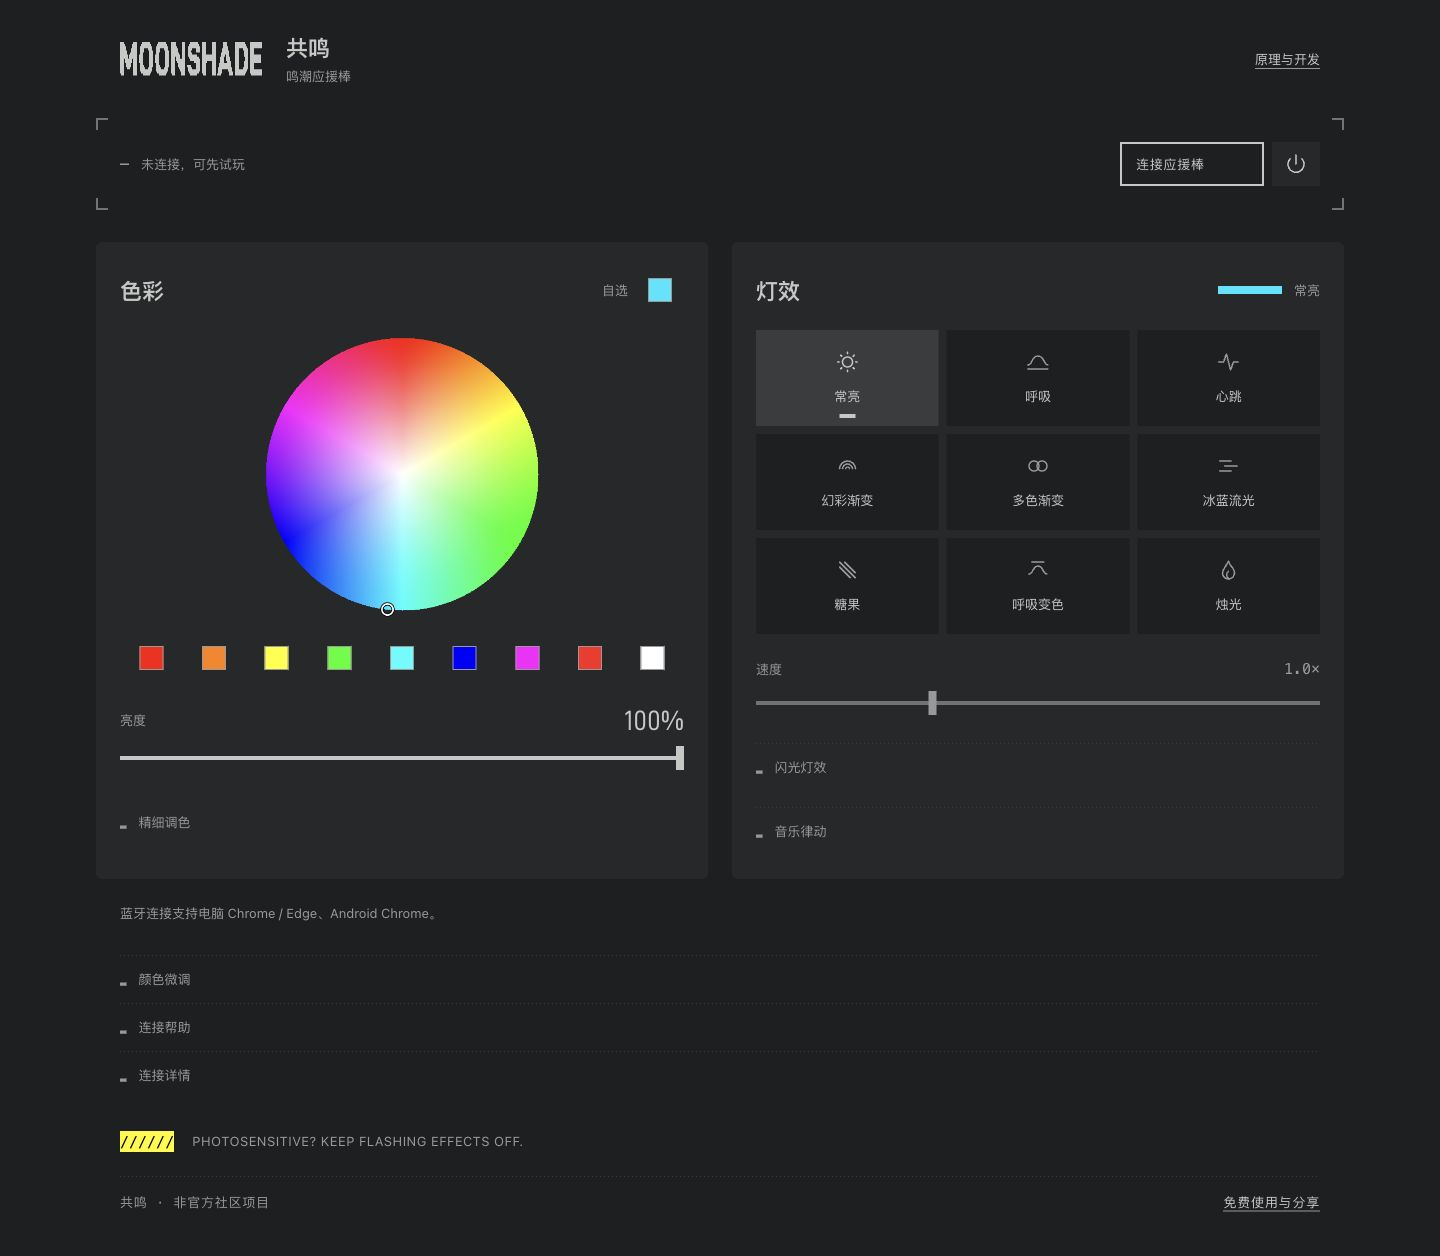
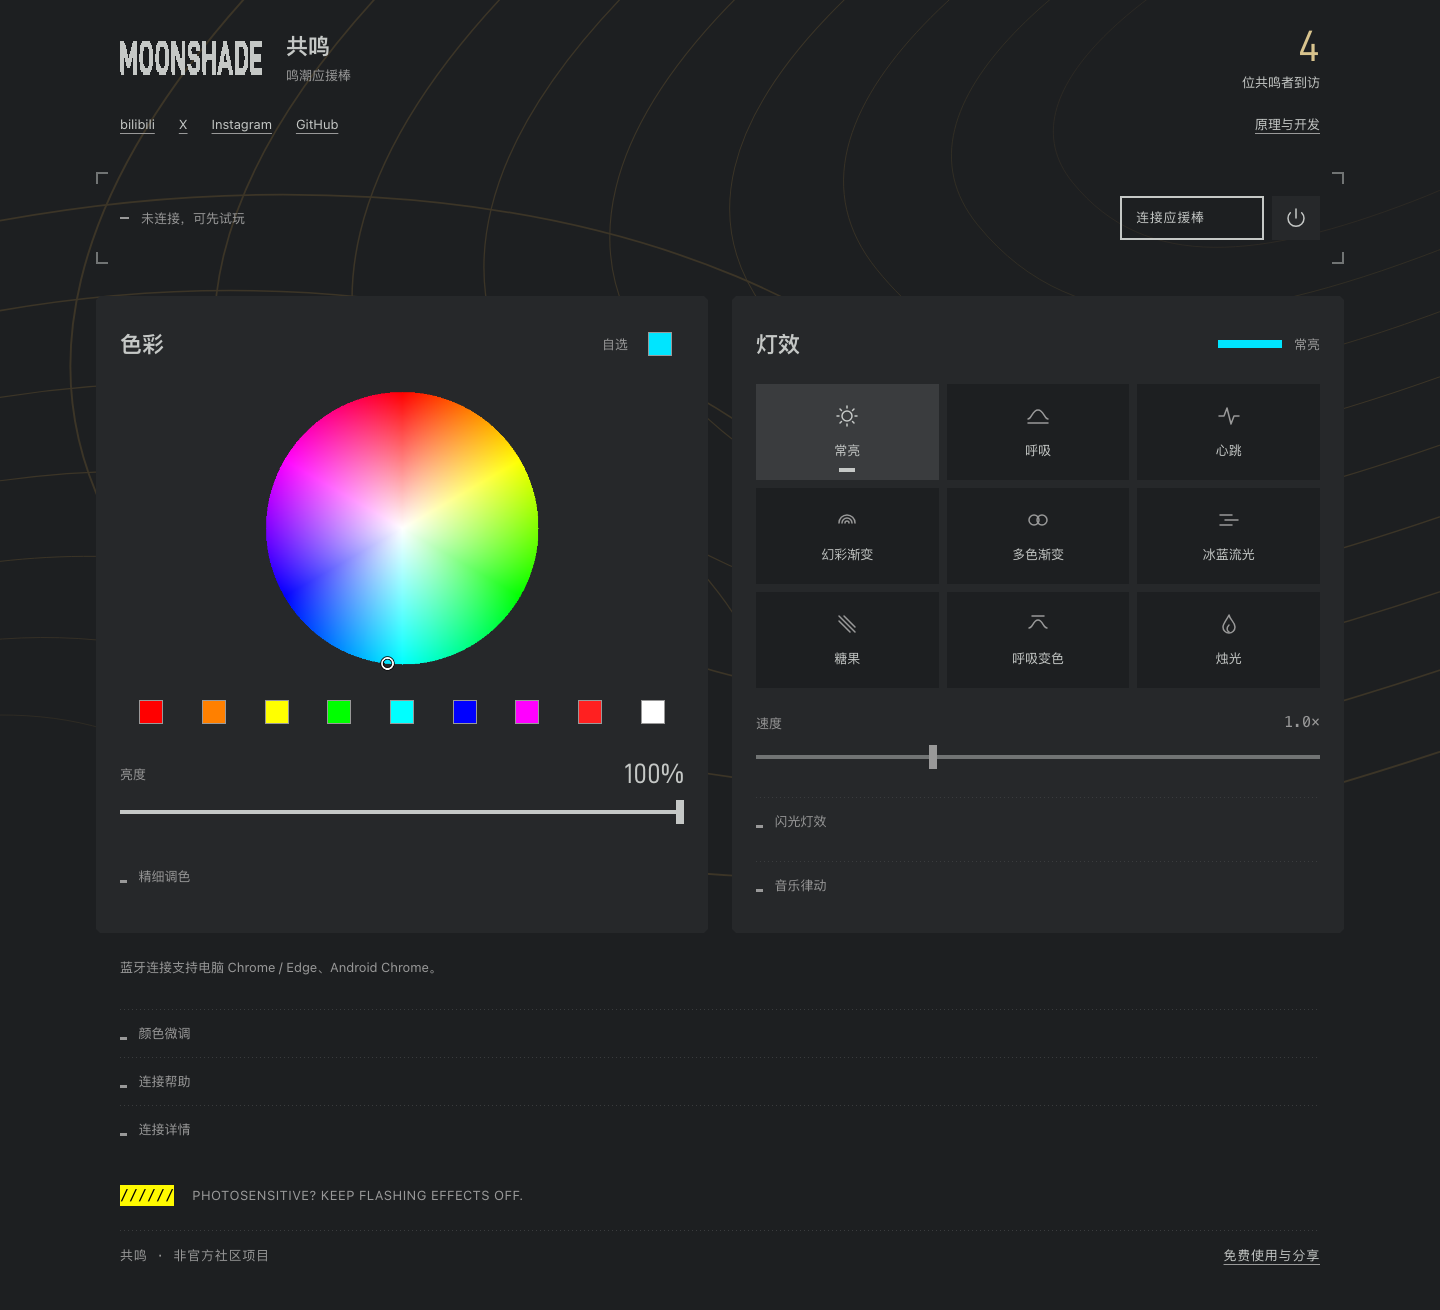
Highlight visitors with gold resonance artwork and social links

diff --git a/web/index.html b/web/index.html
@@ -7,12 +7,30 @@
 <title>共鸣 · 鸣潮应援棒</title><link rel="stylesheet" href="moonshade/tokens.css"><link rel="stylesheet" href="moonshade/bundle.css"><link rel="stylesheet" href="style.css">
 <link rel="canonical" href="https://wuwa.south-wall.com/">
 </head>
-<body class="ms-page">
+<body class="ms-page wuwa-controller">
+<svg class="resonance-field" viewBox="0 0 1600 1000" preserveAspectRatio="xMidYMid slice" aria-hidden="true" focusable="false">
+  <defs><path id="resonance-contour" d="M0-360C260-370 620-220 680 30S390 380 20 360-610 260-680 0-330-350 0-360Z"/></defs>
+  <g transform="translate(1490 70) rotate(-24)">
+    <use href="#resonance-contour" transform="scale(.48)"/><use href="#resonance-contour" transform="scale(.65)"/><use href="#resonance-contour" transform="scale(.83)"/><use href="#resonance-contour" transform="scale(1.02)"/><use href="#resonance-contour" transform="scale(1.22)"/><use href="#resonance-contour" transform="scale(1.43)"/><use href="#resonance-contour" transform="scale(1.65)"/><use href="#resonance-contour" transform="scale(1.88)"/><use href="#resonance-contour" transform="scale(2.12)"/>
+  </g>
+  <g transform="translate(-120 1020) rotate(-24)">
+    <use href="#resonance-contour" transform="scale(.55)"/><use href="#resonance-contour" transform="scale(.76)"/><use href="#resonance-contour" transform="scale(.98)"/><use href="#resonance-contour" transform="scale(1.21)"/><use href="#resonance-contour" transform="scale(1.45)"/><use href="#resonance-contour" transform="scale(1.70)"/><use href="#resonance-contour" transform="scale(1.96)"/>
+  </g>
+</svg>
 <a class="ms-skip" href="#playground">跳到遥控器</a>
 <main class="ms-wrap">
 <header class="masthead ms-header--compact">
   <div class="identity"><a class="ms-brand" href="/" aria-label="MoonShade · 共鸣首页"><svg xmlns="http://www.w3.org/2000/svg" viewBox="0 0 1420 336" width="142" height="33.6" aria-hidden="true" class="ms-wordmark" shape-rendering="crispEdges" focusable="false"><path fill="currentColor" d="M0 0h40v21h-40zM0 168h40v147h-40zM130 0h40v21h-40zM130 168h40v168h-40zM220 0h80v21h-80zM380 0h80v21h-80zM510 0h50v42h-50zM620 0h30v168h-30zM700 0h80v21h-80zM820 0h40v126h-40zM820 210h40v105h-40zM920 0h40v126h-40zM920 189h40v147h-40zM1030 0h40v42h-40zM1150 0h100v21h-100zM1150 315h100v21h-100zM1300 0h120v63h-120zM1300 273h120v42h-120zM0 21h50v21h-50zM120 21h50v42h-50zM210 21h100v21h-100zM210 294h100v21h-100zM370 21h100v21h-100zM370 294h100v21h-100zM690 21h100v21h-100zM690 147h100v21h-100zM690 294h100v21h-100zM1150 21h110v21h-110zM1150 294h110v21h-110zM0 42h60v42h-60zM200 42h120v21h-120zM200 273h120v21h-120zM360 42h120v21h-120zM360 273h120v21h-120zM510 42h60v21h-60zM680 42h120v21h-120zM680 273h120v21h-120zM1030 42h50v21h-50zM1150 42h120v21h-120zM1150 273h120v21h-120zM110 63h60v42h-60zM200 63h40v42h-40zM200 231h40v21h-40zM280 63h40v21h-40zM280 252h40v21h-40zM360 63h40v42h-40zM360 231h40v21h-40zM440 63h40v21h-40zM440 252h40v21h-40zM510 63h70v42h-70zM680 63h40v21h-40zM680 105h40v21h-40zM680 252h40v21h-40zM760 63h40v42h-40zM760 210h40v63h-40zM1020 63h60v21h-60zM1150 63h40v210h-40zM1230 63h50v21h-50zM1230 252h50v21h-50zM1300 63h40v63h-40zM1300 210h40v63h-40zM0 84h70v42h-70zM290 84h40v168h-40zM450 84h40v168h-40zM680 84h30v21h-30zM1020 84h70v21h-70zM1240 84h40v63h-40zM1240 189h40v63h-40zM100 105h70v21h-70zM200 105h30v21h-30zM200 210h30v21h-30zM360 105h30v21h-30zM360 210h30v21h-30zM510 105h80v21h-80zM1010 105h80v21h-80zM0 126h80v42h-80zM90 126h80v42h-80zM190 126h40v84h-40zM350 126h40v84h-40zM510 126h90v21h-90zM680 126h90v21h-90zM820 126h140v63h-140zM1010 126h40v21h-40zM1060 126h30v21h-30zM1300 126h110v84h-110zM510 147h40v168h-40zM560 147h40v21h-40zM1000 147h40v63h-40zM1060 147h40v42h-40zM1250 147h30v42h-30zM50 168h70v42h-70zM560 168h90v21h-90zM700 168h100v21h-100zM570 189h80v21h-80zM740 189h60v21h-60zM820 189h50v21h-50zM1070 189h40v21h-40zM60 210h50v42h-50zM580 210h70v42h-70zM990 210h120v42h-120zM670 231h40v21h-40zM70 252h30v21h-30zM200 252h50v21h-50zM360 252h50v21h-50zM590 252h60v21h-60zM980 252h140v21h-140zM600 273h50v21h-50zM980 273h40v42h-40zM1080 273h40v21h-40zM610 294h40v42h-40zM1090 294h40v42h-40zM10 315h30v21h-30zM230 315h70v21h-70zM390 315h70v21h-70zM520 315h30v21h-30zM700 315h70v21h-70zM830 315h30v21h-30zM970 315h40v21h-40zM1310 315h110v21h-110z"/></svg></a><div class="product-title"><h1 class="ms-h2">共鸣</h1><span class="identity-note web-small">鸣潮应援棒</span></div></div>
-  <div class="masthead-meta"><span id="visitorCount" class="web-body" hidden></span><a class="text-link ms-link web-small" href="principles.html">原理与开发</a></div>
+  <div id="visitorCount" class="visitor-count" hidden><span id="visitorTotal" class="ms-readout"></span> <span class="web-small">位共鸣者到访</span></div>
+  <div class="masthead-nav">
+    <nav class="social-links web-small" aria-label="CloudyMoonShape 的社交链接">
+      <a class="ms-link" href="https://space.bilibili.com/3215958" target="_blank" rel="noopener noreferrer">bilibili</a>
+      <a class="ms-link" href="https://x.com/CloudyMoonShape" target="_blank" rel="noopener noreferrer" aria-label="X（Twitter）">X</a>
+      <a class="ms-link" href="https://www.instagram.com/cloudymoonshape/" target="_blank" rel="noopener noreferrer">Instagram</a>
+      <a class="ms-link" href="https://github.com/CloudyMoonShape/wuwa-lightstick" target="_blank" rel="noopener noreferrer">GitHub</a>
+    </nav>
+    <a class="text-link ms-link web-small" href="principles.html">原理与开发</a>
+  </div>
 </header>
 <noscript><p class="ms-small">请开启 JavaScript 使用遥控器。原理页仍可阅读。</p></noscript>
 <section class="instrument" id="playground" aria-label="应援棒遥控器">

diff --git a/web/style.css b/web/style.css
@@ -1,4 +1,10 @@
 /* MoonShade application extensions. RGB values are control data, not UI colors. */
+/* The owner requested gold resonance contours as a local MoonShade exception. */
+.wuwa-controller { --wuwa-gold:#d8c38d; --wuwa-wave:#3c3527; position:relative; isolation:isolate; }
+[data-theme=light] .wuwa-controller,.wuwa-controller[data-theme=light] { --wuwa-gold:#765a23; --wuwa-wave:#ded7c7; }
+@media(prefers-color-scheme:light) { :root:not([data-theme]) .wuwa-controller { --wuwa-gold:#765a23; --wuwa-wave:#ded7c7; } }
+.resonance-field { position:fixed; inset:0; z-index:-1; width:100%; height:100%; pointer-events:none; fill:none; stroke:var(--wuwa-wave); stroke-width:1; }
+.resonance-field use { vector-effect:non-scaling-stroke; }
 p,h1,h2 { margin:0; }
 button,input { font:inherit; }
 button,a,input,summary { touch-action:manipulation; }
@@ -9,15 +15,19 @@ button:active:not(:disabled) { background:var(--web-ink); color:var(--web-bg); }
 button:disabled { color:var(--web-ink-2); cursor:default; }
 input:focus-visible { outline:2px solid var(--web-focus); outline-offset:3px; }
 svg { width:var(--web-space-6); height:var(--web-space-6); fill:none; stroke:currentColor; stroke-width:1.5; stroke-linecap:round; stroke-linejoin:round; flex-shrink:0; }
-.masthead { display:flex; flex-wrap:wrap; align-items:center; justify-content:space-between; gap:var(--web-space-4); padding-block:var(--web-space-8); }
+.masthead { display:grid; grid-template-columns:minmax(0,1fr) auto; align-items:center; gap:var(--web-space-2) var(--web-space-6); padding-block:var(--web-space-6); }
 .identity { display:flex; align-items:center; gap:var(--web-space-6); }
 .identity .ms-brand { flex:none; }
 .identity .ms-brand svg { stroke:none; }
 .product-title { display:flex; flex-direction:column; gap:var(--web-space-1); }
 .identity h1 { font-family:var(--font-sans); }
 .identity-note { color:var(--web-ink-2); white-space:nowrap; }
-.masthead-meta { display:flex; flex-wrap:wrap; align-items:center; justify-content:space-between; gap:var(--web-space-2) var(--web-space-8); }
-#visitorCount { color:var(--web-ink); font-variant-numeric:tabular-nums; white-space:nowrap; }
+.visitor-count:not([hidden]) { display:flex; flex-direction:column; align-items:flex-end; gap:var(--web-space-1); color:var(--web-ink); white-space:nowrap; }
+#visitorTotal { --digits:1; color:var(--wuwa-gold); }
+.masthead-nav { grid-column:1 / -1; display:flex; flex-wrap:wrap; align-items:center; justify-content:space-between; gap:0 var(--web-space-4); }
+.social-links { display:flex; flex-wrap:wrap; align-items:center; gap:0 var(--web-space-6); }
+.social-links a { display:inline-flex; align-items:center; min-height:var(--web-space-12); white-space:nowrap; }
+.social-links a:hover,.social-links a:focus-visible { color:var(--wuwa-gold); }
 .text-link { display:inline-flex; align-items:center; min-height:var(--web-space-12); white-space:nowrap; }
 .connection { display:flex; justify-content:space-between; align-items:center; gap:var(--web-space-4); margin-bottom:var(--web-space-8); }
 .connection-state { display:flex; align-items:center; gap:var(--web-space-3); min-width:0; }
@@ -103,10 +113,11 @@ button.quiet { background:transparent; color:var(--web-ink-2); padding:var(--web
 .ms-site-footer { padding-top:var(--web-space-8); }
 .ms-footer { margin-top:var(--web-space-6); }
 .ms-footer a { min-height:var(--web-space-8); }
-@media(min-width:768px) { .masthead { padding-block:var(--web-space-8); } }
 @media(max-width:767px) {
-  .identity { gap:var(--web-space-4); }
-  .masthead-meta { width:100%; gap:var(--web-space-2) var(--web-space-4); }
+  .masthead { column-gap:var(--web-space-4); }
+  .identity { flex-direction:column; align-items:flex-start; gap:var(--web-space-2); }
+  .product-title { flex-direction:row; align-items:baseline; gap:var(--web-space-2); }
+  .social-links { gap:0 var(--web-space-4); }
   .masthead .text-link { margin-left:auto; }
   .connection { flex-wrap:wrap; gap:var(--web-space-3); margin-bottom:var(--web-space-4); }
   .connection-state { flex-basis:100%; }

diff --git a/web/visitors.js b/web/visitors.js
@@ -16,7 +16,8 @@
 
   async function start() {
     const node = document.getElementById('visitorCount');
-    if (!node) return;
+    const value = document.getElementById('visitorTotal');
+    if (!node || !value) return;
     node.hidden = true;
     if (!origins.includes(location.origin)) return;
     let timer;
@@ -33,7 +34,7 @@
       if (!response.ok) return;
       const {total} = await response.json();
       if (!Number.isSafeInteger(total) || total < 0) return;
-      node.textContent = `${total.toLocaleString('zh-CN')} 位共鸣者到访`;
+      value.textContent = total.toLocaleString('zh-CN');
       node.hidden = false;
     } catch { /* A counter must never interrupt the controller. */ }
     finally { clearTimeout(timer); }

diff --git a/docs/VISITORS.md b/docs/VISITORS.md
@@ -1,6 +1,6 @@
 # 到访计数
 
-页头、连接栏上方显示「N 位共鸣者到访」。N 是启用计数后，成功登记过的浏览器身份数；从 0 开始，不补造此前的访问量，也不表示独立人数或灯棒数量。
+页头、连接栏上方以金色大读数显示 N，下方为「位共鸣者到访」。N 是启用计数后，成功登记过的浏览器身份数；从 0 开始，不补造此前的访问量，也不表示独立人数或灯棒数量。
 
 ## 怎么计数
 
@@ -15,7 +15,7 @@ flowchart LR
   F -->|已登记| H[读取单行总数]
   G --> H
   D --> H
-  H --> I[显示页脚计数]
+  H --> I[显示页头计数]
 ```
 
 浏览器使用 `crypto.randomUUID()` 生成随机 UUID v4，保存在 `localStorage` 的 `wuwa.visitor.v1`。每次打开页面都提交同一个 ID；服务端把它规范为小写、计算 SHA-256，只保存哈希值。`visitor_ids` 的主键去重，`AFTER INSERT` 触发器仅在真正插入时更新 `visitor_totals` 的唯一一行。插入和读总数放在同一个 D1 `batch()` 中，失败时整体回滚；查询总数不扫描访客表。[D1 事务](https://developers.cloudflare.com/d1/worker-api/d1-database/#batch)、[D1 触发器支持](https://developers.cloudflare.com/d1/sql-api/sql-statements/#pragma-recursive_triggers--onoff)、[SQLite 触发器语义](https://www.sqlite.org/lang_createtrigger.html)
@@ -31,10 +31,13 @@ flowchart LR
 页头提供一个默认隐藏的容器：
 
 ```html
-<span id="visitorCount" class="web-body" hidden></span>
+<div id="visitorCount" class="visitor-count" hidden>
+  <span id="visitorTotal" class="ms-readout"></span>
+  <span class="web-small">位共鸣者到访</span>
+</div>
 ```
 
-加载 [web/visitors.js](../web/visitors.js) 一次即可，无导出接口、无初始化参数。源码预览可用 `<script defer src="visitors.js"></script>`；发布时将脚本原样内联到独立 `<script>` 中，避免额外脚本请求。不要让蓝牙初始化等待计数请求。
+加载 [web/visitors.js](../web/visitors.js) 一次即可，无导出接口、无初始化参数。脚本只向 `visitorTotal` 写入格式化数字，成功后显示整个 `visitorCount`；两个 ID 均需保留。源码预览可用 `<script defer src="visitors.js"></script>`；发布时将脚本原样内联到独立 `<script>` 中，避免额外脚本请求。不要让蓝牙初始化等待计数请求。
 
 脚本在 DOM 就绪后延后一个任务执行，每次页面加载最多请求一次，不轮询。请求最多等待 6 秒，失败、响应异常或数据库未配置时保持隐藏；页面控制和动画照常运行。仅两个正式 HTTPS origin 会发请求。`localhost`、分支预览和临时部署域名既不请求接口，也不生成 ID。API 同样拒绝这些域名。
 

diff --git a/docs/DESIGN-AUDIT.md b/docs/DESIGN-AUDIT.md
@@ -88,3 +88,17 @@
 隔离样本 `1,234` 再次覆盖 375 / 768 / 1440 / 2560 px × 深浅主题、整页、灰阶和焦点，18 张截图逐张检查。无横向溢出、文字对比度不足、字体回退或控制台错误。既有功能性色彩例外保持不变；单文件审计把内联设计系统 CSS 也列入字面 px 告警，新增页面样式仅引用现有 token，没有新增固定像素值。候选警示语和系统待定项沿用前轮，没有新增偏离。
 
 33 项既有测试通过。首页 103,452 字节，gzip 估算 31,539 字节，压缩后较上一版增加 6 字节；测试数字未进入发布产物或生产计数。
+
+## 金色波纹与到访读数
+
+到访人数改为 44 px 的系统 `ms-readout` 大读数，采用金色，下方只保留「位共鸣者到访」。页头加入用户提供的 bilibili、X、Instagram 与 GitHub 四个文字链接；在新标签页打开，避免离开正在使用蓝牙的控制台。链接无社交插件、图标库或第三方脚本，GitHub 入口使用用户指定的仓库地址。
+
+背景使用原创的低对比度金色等高波纹，单个路径通过内嵌 SVG 复用。深浅主题各有一套实色，静止、不拦截点击，并从辅助技术中隐藏；面板维持实色底以保证控制区清晰。用户明确要求鸣潮式金色纹理，因此金色和装饰底纹作为本页的 MoonShade 偏离记录，不冒充设计系统的设施纹样，也未改动系统源文件。此前功能 RGB 色彩、焦点环尺寸和未使用字体的例外继续保留，候选警示语与系统待定项没有变化。
+
+本地隔离样本以 `4` 检查 375 / 768 / 1440 / 2560 px × 深浅主题、整页、灰阶及焦点，共 18 张截图逐张查看。无横向溢出、文字对比度告警、字体回退或控制台错误；1440 px 下两套主题各 36 个默认焦点停靠点均有焦点环。375 px 页高为 1440 px 的 1.42 倍。隔离样本不向正式接口上报；发布页面仍从接口读取真实数字。
+
+另以 `1,234` 检查 320 / 375 / 1440 px 页头，无数字与品牌重叠或横向溢出。README 桌面与手机截图来自本地页面，其数字使用截图时正式接口只读返回的 `4`，不生成测试访客。
+
+合入同期上游的字体许可命名修订后，继续使用相同的字形与字号，CSS 字体名为 `Wuwa UI Readout`。375 / 1440 px 深浅主题均复查字体实际加载、44 px 读数与无横向溢出，并重新生成 README 截图。
+
+33 项既有测试通过。首页 106,611 字节，gzip 估算 32,306 字节，较上一轮已发布版本压缩后增加 767 字节；本轮未改动混色、灯效调度和蓝牙协议，也未重测实体灯棒或国内线路延迟。

diff --git a/docs/DEPLOYMENT.md b/docs/DEPLOYMENT.md
@@ -8,7 +8,7 @@ Pages 项目仍为 `wuwa-lightstick`。先在项目中关联自定义域名 `wuw
 
 使用 Direct Upload；发布后回读正式入口及资源，逐项与本地构建比较。当前视觉版本的检查记录见 [展示审查](DESIGN-AUDIT.md)。
 
-首页把样式、字体子集和应用/SDK 代码内联为一个 HTML，不请求外部字体、图片或脚本，不含第三方分析 SDK；浏览器只需拿到首页即可通过本机蓝牙操作。到访计数在页面初始化后独立请求同源接口，超时或失败会隐藏，不阻塞遥控器。源文件仍模块化，便于开发。当前首页约 103 KB 原始体积、31.5 KB gzip 估算；这不是中国运营商延迟测量。
+首页把样式、字体子集和应用/SDK 代码内联为一个 HTML，不请求外部字体、图片或脚本，不含第三方分析 SDK；浏览器只需拿到首页即可通过本机蓝牙操作。金色波纹为内嵌 SVG，社交入口为普通链接，均不增加首屏请求。到访计数在页面初始化后独立请求同源接口，超时或失败会隐藏，不阻塞遥控器。源文件仍模块化，便于开发。当前首页约 107 KB 原始体积、32.3 KB gzip 估算；这不是中国运营商延迟测量。
 
 仅公开 `dist/` 中列入白名单的网页资源：控制台、原理页、SDK 与混色模块、404、许可、站点响应头与 Functions 路由；另包含 `assets/hardware/` 四张已清理元数据的 WebP 和字体 OFL 许可。硬件照片在原理页按需加载，不进入控制台 HTML。Wrangler 另将根目录 `functions/` 编译到服务端；`_routes.json` 仅让 `/api/visitors` 进入函数，其余页面仍静态直出。不要上传仓库根目录、固件、vendor、虚拟环境或凭据。
 

diff --git a/README.md b/README.md
@@ -6,7 +6,7 @@
 
 [![共鸣控制台：色轮、亮度与灯效](docs/screenshots/controller-desktop.png)](https://wuwa.south-wall.com/)
 
-连接自己的应援棒，调色，播放灯效，跟随音乐。蓝牙控制与音频分析都在本机完成，无需账号或控制服务器。首页是一个轻量 HTML，约 30 KB gzip，样式、字体与脚本均内联；硬件照片只在原理页加载。
+连接自己的应援棒，调色，播放灯效，跟随音乐。蓝牙控制与音频分析都在本机完成，无需账号或控制服务器。首页是一个轻量 HTML，约 32 KB gzip，样式、字体与脚本均内联；硬件照片只在原理页加载。
 
 使用电脑 Chrome / Edge 或 Android Chrome，选择 `JFKJ-FBFB`。连接成功后会闪三次蓝灯，稍等即可操作。目前面向主板 **HE-750G24**、固件 **V4.1.8** 的研究样机，其他批次不保证兼容。
 
